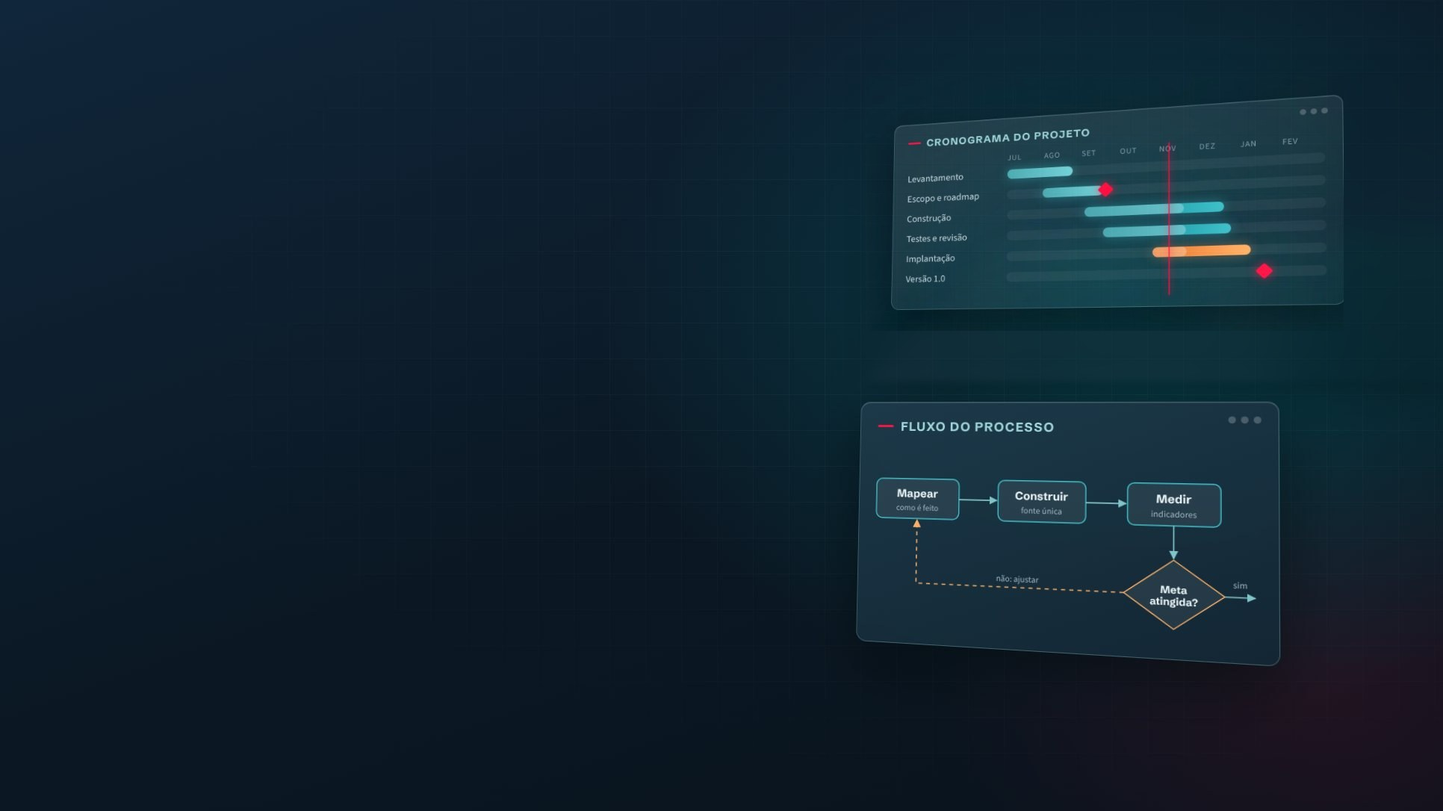
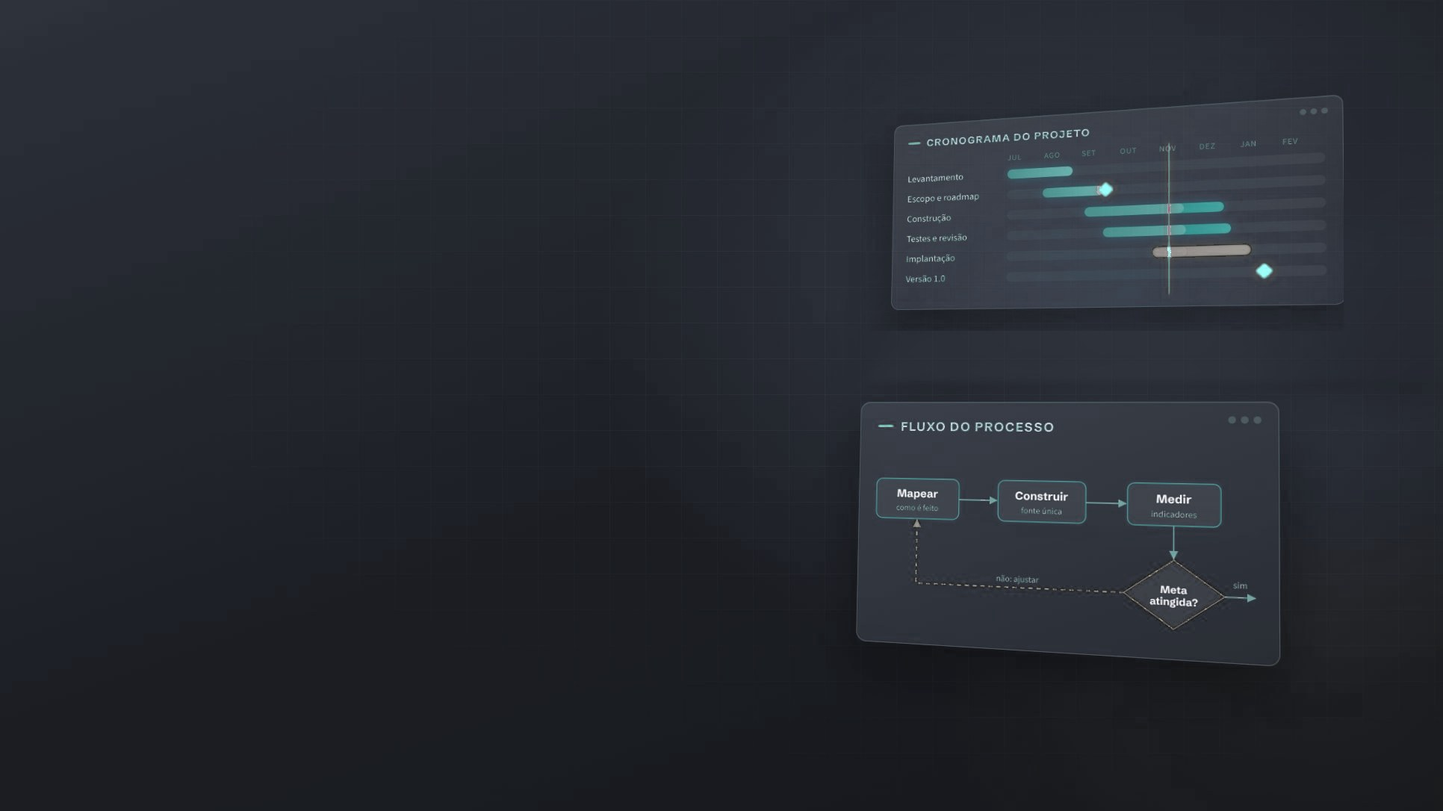
Add files via upload

diff --git a/index.html b/index.html
@@ -6,7 +6,7 @@
 <title>Rafael Oertel — Planejamento e Gestão de Projetos · Melhoria de Processos</title>
 <meta name="description" data-pt="Rafael Oertel — engenheiro de produção, 13 anos em planejamento e gestão de projetos, melhoria de processos e governança operacional em quatro setores: óleo e gás offshore, logística, transporte e consultoria. ERP construído do zero sobre o Microsoft 365." data-en="Rafael Oertel — production engineer, 13 years in project planning and management, process improvement and operational governance across four sectors: offshore oil & gas, logistics, transport and consulting. An ERP built from zero on Microsoft 365." content="Rafael Oertel — engenheiro de produção, 13 anos em planejamento e gestão de projetos, melhoria de processos e governança operacional em quatro setores: óleo e gás offshore, logística, transporte e consultoria. ERP construído do zero sobre o Microsoft 365.">
 <meta name="author" content="Rafael Oertel">
-<meta name="theme-color" content="#132634">
+<meta name="theme-color" content="#22262E">
 <!-- Enquanto o site for rascunho, descomente a linha abaixo para não ser indexado:
 <meta name="robots" content="noindex,nofollow"> -->
 <link rel="canonical" href="https://rafaeloertel.com/">
@@ -15,19 +15,19 @@
 <meta property="og:title" content="Rafael Oertel — projetos no prazo, processos sob controle, em qualquer indústria">
 <meta property="og:description" content="Planejamento e gestão de projetos, melhoria de processos e governança operacional. 13 anos em quatro setores, 8 deles em óleo e gás offshore. Estudo de caso do ERP, números e decisões.">
 <meta property="og:url" content="https://rafaeloertel.com/">
-<meta property="og:image" content="https://rafaeloertel.com/assets/img/og.jpg">
+<meta property="og:image" content="https://rafaeloertel.com/og.jpg">
 <meta property="og:image:width" content="1200">
 <meta property="og:image:height" content="630">
 <meta property="og:locale" content="pt_BR">
 <meta property="og:locale:alternate" content="en_US">
 <meta name="twitter:card" content="summary_large_image">
-<link rel="icon" href="/icon-32.png?v=0.5.12" sizes="32x32" type="image/png">
-<link rel="icon" href="/favicon.svg?v=0.5.12" type="image/svg+xml">
-<link rel="apple-touch-icon" href="/apple-touch-icon.png?v=0.5.12">
+<link rel="icon" href="/icon-32.png?v=0.5.15" sizes="32x32" type="image/png">
+<link rel="icon" href="/favicon.svg?v=0.5.15" type="image/svg+xml">
+<link rel="apple-touch-icon" href="/apple-touch-icon.png?v=0.5.15">
 <link rel="preload" href="assets/fonts/schibsted-grotesk-latin-wght-normal.woff2" as="font" type="font/woff2" crossorigin>
 <link rel="preload" href="assets/fonts/source-sans-3-latin-wght-normal.woff2" as="font" type="font/woff2" crossorigin>
-<link rel="preload" href="/hero.jpg?v=0.5.13" as="image" media="(min-width: 761px)">
-<link rel="preload" href="assets/img/hero-mobile.jpg" as="image" media="(max-width: 760px)">
+<link rel="preload" href="/hero.jpg?v=0.5.15" as="image" media="(min-width: 761px)">
+<link rel="preload" href="/hero-mobile.jpg?v=0.5.15" as="image" media="(max-width: 760px)">
 <script type="application/ld+json">
 {"@context":"https://schema.org","@type":"Person","name":"Rafael Oertel","jobTitle":"Planejamento e Gestão de Projetos · Melhoria de Processos","url":"https://rafaeloertel.com/","sameAs":["https://www.linkedin.com/in/rafael-oertel-16750b40"],"alumniOf":[{"@type":"CollegeOrUniversity","name":"Universidade Federal do Rio de Janeiro"},{"@type":"CollegeOrUniversity","name":"Universidade Gama Filho"}],"knowsAbout":["Project planning & management","Process improvement","Operational governance","Project controls","KPI governance","Digital transformation","Offshore logistics","Supply chain","Cost control","OHS compliance","Microsoft 365","SharePoint","Process automation"]}
 </script>
@@ -47,15 +47,16 @@
 @font-face{font-family:"Source Sans 3";src:url("assets/fonts/source-sans-3-latin-wght-italic.woff2") format("woff2");font-weight:200 900;font-style:italic;font-display:swap}
 
 :root{
-  /* --- cor (tema claro) --- */
-  --bg:#FFFFFF; --bg-2:#F7F7F7; --bg-3:#DEEDEE; --surface:#FFFFFF; --surface-2:#F1F5F6;
-  --line:#DCDCDC; --line-2:#EAECEE;
-  --ink:#243746; --text:#2B3A46; --text-2:#5A6771; --text-3:#5F6B74;
-  --brand:#007079; --brand-deep:#004F55; --brand-soft:#DEEDEE; --brand-contrast:#FFFFFF;
-  --accent:#FF1243; --mist:#D5EAF4; --spruce:#FFE7D6;
-  --band:#132634; --band-2:#1B2F3E; --on-band:#E8EEF1; --on-band-2:#B7C4CC; --band-line:rgba(255,255,255,.14);
-  --ok:#2E8B57; --warn:#E08A00;
-  --shadow:0 12px 32px rgba(19,38,52,.10);
+  /* --- cor (tema claro) · paleta: Grafite #22262E, Petróleo #0F6E6B, Branco #FFFFFF, Cinza #8E939C --- */
+  --bg:#FFFFFF; --bg-2:#F4F5F6; --bg-3:#E2EFEE; --surface:#FFFFFF; --surface-2:#F1F3F4;
+  --line:#DADDE1; --line-2:#ECEEF0;
+  --mk-left:#22262E; --mk-right:#8E939C; --mk-top:#D3D6DA; --mk-bar:#FFFFFF; --mk-line:#2A9D98;
+  --ink:#22262E; --text:#2C313A; --text-2:#5C626C; --text-3:#646A74;
+  --brand:#0F6E6B; --brand-deep:#0A4F4D; --brand-soft:#E2EFEE; --brand-contrast:#FFFFFF;
+  --accent:#0F6E6B; --mist:#E2EFEE; --spruce:#ECEEF0;
+  --band:#22262E; --band-2:#2C313A; --on-band:#F2F3F5; --on-band-2:#B9BDC4; --band-line:rgba(255,255,255,.14);
+  --ok:#0F6E6B; --warn:#646A74;
+  --shadow:0 12px 32px rgba(34,38,46,.10);
   /* --- tipo --- */
   --f-display:"Schibsted Grotesk",-apple-system,"Segoe UI",Roboto,Arial,sans-serif;
   --f-body:"Source Sans 3","Segoe UI",Roboto,Arial,sans-serif;
@@ -65,27 +66,29 @@
 }
 @media (prefers-color-scheme:dark){
   :root:not([data-theme="light"]){
-    --bg:#0F1D28; --bg-2:#132634; --bg-3:#1A3040; --surface:#172A38; --surface-2:#1B2F3E;
+    --bg:#1A1D23; --bg-2:#22262E; --bg-3:#2A2F38; --surface:#252A32; --surface-2:#2C313A;
     --line:rgba(255,255,255,.13); --line-2:rgba(255,255,255,.08);
-    --ink:#F2F6F8; --text:#DCE5EA; --text-2:#A9B8C2; --text-3:#86959F;
-    --brand:#73B1B5; --brand-deep:#A8CED1; --brand-soft:rgba(115,177,181,.16); --brand-contrast:#0B161F;
-    --accent:#FF4D74; --mist:#1E3A4A; --spruce:#3A2E28;
-    --band:#0B161F; --band-2:#132634; --on-band:#E8EEF1; --on-band-2:#B7C4CC; --band-line:rgba(255,255,255,.14);
-    --ok:#5FBF83; --warn:#F2A43A;
+    --mk-left:#F2F3F5; --mk-right:#8E939C; --mk-top:#4A505A; --mk-bar:#22262E; --mk-line:#0F6E6B;
+    --ink:#F2F3F5; --text:#DDE0E4; --text-2:#B0B5BD; --text-3:#959AA3;
+    --brand:#5FB3AF; --brand-deep:#8FCBC8; --brand-soft:rgba(95,179,175,.16); --brand-contrast:#14181D;
+    --accent:#5FB3AF; --mist:#2A2F38; --spruce:#2C313A;
+    --band:#15181D; --band-2:#22262E; --on-band:#F2F3F5; --on-band-2:#B9BDC4; --band-line:rgba(255,255,255,.14);
+    --ok:#5FB3AF; --warn:#B0B5BD;
     --shadow:0 12px 32px rgba(0,0,0,.35);
     color-scheme:dark;
   }
 }
 :root[data-theme="dark"]{
-  --bg:#0F1D28; --bg-2:#132634; --bg-3:#1A3040; --surface:#172A38; --surface-2:#1B2F3E;
-  --line:rgba(255,255,255,.13); --line-2:rgba(255,255,255,.08);
-  --ink:#F2F6F8; --text:#DCE5EA; --text-2:#A9B8C2; --text-3:#86959F;
-  --brand:#73B1B5; --brand-deep:#A8CED1; --brand-soft:rgba(115,177,181,.16); --brand-contrast:#0B161F;
-  --accent:#FF4D74; --mist:#1E3A4A; --spruce:#3A2E28;
-  --band:#0B161F; --band-2:#132634; --on-band:#E8EEF1; --on-band-2:#B7C4CC; --band-line:rgba(255,255,255,.14);
-  --ok:#5FBF83; --warn:#F2A43A;
-  --shadow:0 12px 32px rgba(0,0,0,.35);
-  color-scheme:dark;
+    --bg:#1A1D23; --bg-2:#22262E; --bg-3:#2A2F38; --surface:#252A32; --surface-2:#2C313A;
+    --line:rgba(255,255,255,.13); --line-2:rgba(255,255,255,.08);
+    --mk-left:#F2F3F5; --mk-right:#8E939C; --mk-top:#4A505A; --mk-bar:#22262E; --mk-line:#0F6E6B;
+    --ink:#F2F3F5; --text:#DDE0E4; --text-2:#B0B5BD; --text-3:#959AA3;
+    --brand:#5FB3AF; --brand-deep:#8FCBC8; --brand-soft:rgba(95,179,175,.16); --brand-contrast:#14181D;
+    --accent:#5FB3AF; --mist:#2A2F38; --spruce:#2C313A;
+    --band:#15181D; --band-2:#22262E; --on-band:#F2F3F5; --on-band-2:#B9BDC4; --band-line:rgba(255,255,255,.14);
+    --ok:#5FB3AF; --warn:#B0B5BD;
+    --shadow:0 12px 32px rgba(0,0,0,.35);
+    color-scheme:dark;
 }
 
 /* ---------- base ---------- */
@@ -133,15 +136,15 @@ body.review .review-badge{display:block}
 .btn-ghost:hover{border-color:var(--ink);color:var(--ink)}
 .btn-light{background:transparent;color:#fff;border-color:rgba(255,255,255,.55)}
 .btn-light:hover{border-color:#fff;color:#fff;background:rgba(255,255,255,.08)}
-.btn-white{background:#fff;color:#243746;border-color:#fff}
-.btn-white:hover{background:#F1F5F6;color:#243746}
+.btn-white{background:#fff;color:#22262E;border-color:#fff}
+.btn-white:hover{background:#F1F3F4;color:#22262E}
 .btn[aria-disabled="true"]{opacity:.55;cursor:default;pointer-events:none}
 .arrow{display:inline-flex;align-items:center;gap:8px;font-family:var(--f-display);font-weight:600;color:var(--ink)}
 .arrow::after{content:"→";color:var(--accent);transition:transform .15s ease}
 .arrow:hover::after{transform:translateX(4px)}
 .pill{display:inline-block;font-family:var(--f-display);font-size:.72rem;font-weight:700;letter-spacing:.08em;text-transform:uppercase;padding:4px 9px;border-radius:3px;background:var(--brand-soft);color:var(--brand-deep)}
 .pill-dark{background:rgba(255,255,255,.10);color:var(--on-band)}
-.pill-warn{background:rgba(224,138,0,.14);color:var(--warn)}
+.pill-warn{background:rgba(142,147,156,.18);color:var(--warn)}
 
 /* ---------- cabeçalho ---------- */
 .header{position:fixed;inset:0 0 auto 0;z-index:50;padding-top:env(safe-area-inset-top,0px);transition:background .25s ease,box-shadow .25s ease;color:#fff}
@@ -159,13 +162,14 @@ html[data-lang="en"] .lang .flag-br{display:block}
 .brand span{white-space:nowrap}
 @media (min-width:1161px) and (max-width:1500px){.nav a{padding:10px 7px;font-size:.9rem}}
 .brand svg{width:36px;height:36px;flex:none}
-.brand .mark-r{fill:currentColor}.brand .mark-dot{fill:#FF1243}
+.brand .mk-left{fill:var(--mk-left)}.brand .mk-right{fill:var(--mk-right)}.brand .mk-top{fill:var(--mk-top)}.brand .mk-bar{fill:var(--mk-bar)}.brand .mk-bar2{fill:var(--mk-bar);opacity:.42}.brand .mk-line{stroke:var(--mk-line);stroke-width:2;fill:none}
+.header:not(.scrolled) .brand,.footer .brand{--mk-left:#FFFFFF;--mk-right:#8E939C;--mk-top:#4A505A;--mk-bar:#22262E;--mk-line:#0F6E6B} /* marca sobre fundo escuro: topo do site e rodapé */
 .nav{display:flex;align-items:center;gap:4px}
 .nav a{color:inherit;font-family:var(--f-display);font-weight:500;font-size:.95rem;padding:10px 10px;border-radius:4px;opacity:.9;white-space:nowrap}
 .nav a:hover{opacity:1;background:rgba(255,255,255,.10)}
 .nav a.active{opacity:1;box-shadow:inset 0 -2px 0 var(--accent)}
 .nav .btn{margin-left:8px;padding:10px 16px;font-size:.9rem}
-.header.scrolled{background:var(--surface);color:var(--ink);box-shadow:0 1px 0 var(--line),0 8px 24px rgba(19,38,52,.06)}
+.header.scrolled{background:var(--surface);color:var(--ink);box-shadow:0 1px 0 var(--line),0 8px 24px rgba(34,38,46,.06)}
 .header.scrolled .nav a:hover{background:var(--bg-2)}
 .header.scrolled .nav .btn-light{color:var(--ink);border-color:var(--line)}
 .header.scrolled .nav .btn-light:hover{border-color:var(--ink);background:transparent}
@@ -191,8 +195,8 @@ details.more > summary::-webkit-details-marker{display:none}
 details[open] > .more-btn::after{transform:rotate(-135deg) translate(-2px,-1px)}
 .more-btn:hover{border-color:var(--brand)}
 .more-btn:focus-visible{outline:3px solid var(--brand);outline-offset:3px}
-.band .more-btn{background:transparent;border-color:var(--band-line);color:#9FD6DA}
-.band .more-btn:hover{border-color:#9FD6DA}
+.band .more-btn{background:transparent;border-color:var(--band-line);color:#8FCBC8}
+.band .more-btn:hover{border-color:#8FCBC8}
 details.more[open] > .more-btn{margin-bottom:14px}
 .tl details.more .more-btn{margin-top:10px;padding:8px 14px;font-size:.88rem}
 .log details.more{padding:6px 0 20px;border-top:1px solid var(--line)}
@@ -204,18 +208,19 @@ details.more[open] > .more-btn{margin-bottom:14px}
 /* telas em faixa deslizante */
 .shots{display:flex!important;gap:14px;overflow-x:auto;scroll-snap-type:x mandatory;padding-bottom:12px;scrollbar-width:thin;scrollbar-color:var(--band-line) transparent}
 .shots figure{flex:0 0 min(440px,82%);scroll-snap-align:start}
-.shots:focus-visible{outline:3px solid #9FD6DA;outline-offset:4px;border-radius:var(--radius)}
+.shots:focus-visible{outline:3px solid #8FCBC8;outline-offset:4px;border-radius:var(--radius)}
 .shots-hint{font-size:.85rem;color:var(--on-band-2);margin-top:6px}
 @media print{details.more > .more-btn{display:none}}
 /* ---------- hero ---------- */
-.hero{position:relative;min-height:clamp(560px,82vh,820px);display:flex;align-items:flex-end;color:#fff;isolation:isolate;background:#132634}
+.hero,.statement{--accent:#5FB3AF} /* destaque em petróleo claro sobre fundo escuro */
+.hero{position:relative;min-height:clamp(560px,82vh,820px);display:flex;align-items:flex-end;color:#fff;isolation:isolate;background:#22262E}
 .hero-img{position:absolute;inset:0;width:100%;height:100%;object-fit:cover;object-position:68% 50%;z-index:-2}
 @media (min-width:1001px){.hero-img{object-position:85% 50%}} /* telas largas: mantém o cronograma inteiro dentro da página */
 .hero picture{display:contents}
 .hero::before{content:"";position:absolute;inset:0;z-index:-1;background:
-  linear-gradient(180deg,rgba(6,16,26,.55) 0%,rgba(6,16,26,0) 30%),
-  linear-gradient(90deg,rgba(6,16,26,.72) 0%,rgba(6,16,26,.35) 48%,rgba(6,16,26,0) 75%),
-  linear-gradient(0deg,rgba(6,16,26,.85) 0%,rgba(6,16,26,.2) 45%,rgba(6,16,26,0) 70%)}
+  linear-gradient(180deg,rgba(22,25,31,.55) 0%,rgba(22,25,31,0) 30%),
+  linear-gradient(90deg,rgba(22,25,31,.72) 0%,rgba(22,25,31,.35) 48%,rgba(22,25,31,0) 75%),
+  linear-gradient(0deg,rgba(22,25,31,.85) 0%,rgba(22,25,31,.2) 45%,rgba(22,25,31,0) 70%)}
 .hero .container{padding-block:clamp(120px,14vh,160px) clamp(48px,7vh,80px)}
 .hero-grid{display:grid;grid-template-columns:minmax(0,1fr) auto;align-items:end;gap:32px}
 .hero .eyebrow{color:rgba(255,255,255,.82)}
@@ -230,7 +235,7 @@ details.more[open] > .more-btn{margin-bottom:14px}
 @media (max-width:760px){.hero-grid{grid-template-columns:1fr}.hero-cap{text-align:left;max-width:none}
   .hero{min-height:min(94vh,880px)}.hero-img{object-position:50% 0%}
   .hero .eyebrow .opt{display:none}.hero .lead{font-size:1.05rem;margin-top:16px}.hero h1{margin-top:16px}
-  .hero::before{background:linear-gradient(180deg,rgba(6,16,26,.35) 0%,rgba(6,16,26,.18) 20%,rgba(6,16,26,.78) 40%,rgba(6,16,26,.95) 100%)}}
+  .hero::before{background:linear-gradient(180deg,rgba(22,25,31,.35) 0%,rgba(22,25,31,.18) 20%,rgba(22,25,31,.78) 40%,rgba(22,25,31,.95) 100%)}}
 
 /* ---------- números ---------- */
 .numbers{background:var(--bg-2);border-bottom:1px solid var(--line-2)}
@@ -277,8 +282,8 @@ details.more[open] > .more-btn{margin-bottom:14px}
 /* ---------- faixa fotográfica (declaração) ---------- */
 .statement{position:relative;isolation:isolate;color:#fff;min-height:clamp(320px,46vh,520px);display:flex;align-items:center;background:#0B3A40}
 .statement img{position:absolute;inset:0;width:100%;height:100%;object-fit:cover;object-position:62% 55%;z-index:-2}
-@media (max-width:760px){.statement img{object-position:78% 55%}.statement::before{background:linear-gradient(90deg,rgba(11,30,40,.86) 0%,rgba(11,30,40,.62) 70%,rgba(11,30,40,.35) 100%)}}
-.statement::before{content:"";position:absolute;inset:0;z-index:-1;background:linear-gradient(90deg,rgba(11,30,40,.80) 0%,rgba(11,30,40,.45) 55%,rgba(11,30,40,.10) 100%)}
+@media (max-width:760px){.statement img{object-position:78% 55%}.statement::before{background:linear-gradient(90deg,rgba(22,25,31,.86) 0%,rgba(22,25,31,.62) 70%,rgba(22,25,31,.35) 100%)}}
+.statement::before{content:"";position:absolute;inset:0;z-index:-1;background:linear-gradient(90deg,rgba(22,25,31,.80) 0%,rgba(22,25,31,.45) 55%,rgba(22,25,31,.10) 100%)}
 .statement .container{padding-block:clamp(56px,8vw,96px)}
 .statement blockquote{margin:0;max-width:26ch;font-family:var(--f-display);font-size:clamp(1.7rem,3.6vw,2.9rem);font-weight:700;line-height:1.12;letter-spacing:-.02em}
 .statement blockquote::before{content:"";display:block;width:36px;height:3px;background:var(--accent);margin-bottom:22px}
@@ -335,7 +340,7 @@ details.more[open] > .more-btn{margin-bottom:14px}
 @media (max-width:860px){.edu{grid-template-columns:1fr}}
 
 /* ---------- capítulo ERP (faixa escura) ---------- */
-.band{background:var(--band);color:var(--on-band);--brand:#73B1B5;--brand-deep:#A8CED1;--brand-soft:rgba(115,177,181,.16);--brand-contrast:#0B161F;--warn:#F2A43A}
+.band{background:var(--band);color:var(--on-band);--brand:#5FB3AF;--brand-deep:#8FCBC8;--brand-soft:rgba(95,179,175,.16);--brand-contrast:#14181D;--accent:#5FB3AF;--warn:#B0B5BD}
 .band h2,.band h3,.band h4{color:#fff}
 .band .eyebrow{color:var(--on-band-2)}
 .band .lead{color:var(--on-band-2)}
@@ -412,7 +417,7 @@ details.more[open] > .more-btn{margin-bottom:14px}
 .media .media-card p.small{font-size:.86rem;opacity:.85}
 .media-card{border:1px solid var(--band-line);border-radius:var(--radius);overflow:hidden;background:var(--band-2);display:grid;grid-template-rows:auto 1fr}
 .media-card .frame{aspect-ratio:16/9;background:linear-gradient(135deg,#0E2A36,#1B4B55);display:grid;place-items:center;position:relative}
-.media-card .frame video{position:absolute;inset:0;width:100%;height:100%;object-fit:cover;background:#0B161F}
+.media-card .frame video{position:absolute;inset:0;width:100%;height:100%;object-fit:cover;background:#15181D}
 .play{width:72px;height:72px;border-radius:50%;background:rgba(255,255,255,.14);border:1.5px solid rgba(255,255,255,.5);display:grid;place-items:center}
 .play::after{content:"";border-style:solid;border-width:12px 0 12px 20px;border-color:transparent transparent transparent #fff;margin-left:5px}
 .media-card .txt{padding:18px 20px 20px;display:grid;gap:8px;align-content:start}
@@ -478,7 +483,7 @@ body.review .totop{bottom:calc(64px + env(safe-area-inset-bottom,0px))}
 
 /* ---------- impressão: vira um currículo estendido em preto no branco ---------- */
 @media print{
-  :root{--bg:#fff;--bg-2:#fff;--surface:#fff;--ink:#000;--text:#111;--text-2:#333;--text-3:#555;--line:#bbb;--line-2:#ddd;--brand:#005a61;--band:#fff;--band-2:#fff;--on-band:#111;--on-band-2:#333;--band-line:#bbb}
+  :root{--bg:#fff;--bg-2:#fff;--surface:#fff;--ink:#000;--text:#111;--text-2:#333;--text-3:#555;--line:#bbb;--line-2:#ddd;--brand:#0F6E6B;--band:#fff;--band-2:#fff;--on-band:#111;--on-band-2:#333;--band-line:#bbb}
   html[data-lang="en"] [lang="pt-BR"],html[data-lang="pt"] [lang="en"]{display:none!important}
   .header,.skip,.menu-btn,.lang,.review-badge,.totop,.hero picture,.hero::before,.hero-cta,.statement,.shots,.media,.copy,.arch .hint,.doc img,.portrait img,.field,.reach{display:none!important}
   body{background:#fff;color:#111;font-size:11pt}
@@ -507,7 +512,7 @@ body.review .totop{bottom:calc(64px + env(safe-area-inset-bottom,0px))}
 <!-- ============================ CABEÇALHO ============================ -->
 <header class="header" id="topo">
   <div class="container bar">
-    <a class="brand" href="#inicio"><svg viewBox="10 10 44 44" aria-hidden="true"><path class="mark-r" d="M12.0 11.888579368591309Q13.615598678588867 11.944290161132812 16.26183795928955 12.0Q18.908077239990234 12.055709838867188 21.582172393798828 12.055709838867188Q24.367687225341797 12.055709838867188 26.9303617477417 12.0Q29.4930362701416 11.944290161132812 30.551532745361328 11.944290161132812Q36.23398208618164 11.944290161132812 39.93871879577637 13.002785682678223Q43.643455505371094 14.061281204223633 45.481895446777344 16.206128120422363Q47.320335388183594 18.350975036621094 47.320335388183594 21.637882232666016Q47.320335388183594 23.69916343688965 46.48468017578125 25.649024963378906Q45.649024963378906 27.598886489868164 43.64345359802246 29.186630249023438Q41.637882232666016 30.77437400817871 38.15599060058594 31.693593978881836Q36.27035903930664 32.19139862060547 33.8373908996582 32.41961669921875Q39.38301467895508 32.75266647338867 42.22283935546875 34.45125198364258Q45.20334243774414 36.23398208618164 45.87186813354492 39.68802261352539L47.04178237915039 45.481895446777344Q47.487464904785156 47.543174743652344 48.04456901550293 48.3231201171875Q48.6016731262207 49.103065490722656 49.54874801635742 49.103065490722656Q50.10585021972656 49.103065490722656 50.49582290649414 48.93593406677246Q50.88579559326172 48.768802642822266 51.27576446533203 48.37882995605469L52.0 49.103065490722656Q50.272979736328125 50.830081939697266 48.239553451538086 51.47075080871582Q46.20612716674805 52.111419677734375 43.643455505371094 52.111419677734375Q40.02228546142578 52.111419677734375 37.79387283325195 50.80222702026367Q35.565460205078125 49.49303436279297 35.06406784057617 46.09470748901367L34.22841262817383 40.523677825927734Q33.89414978027344 38.23955535888672 33.392757415771484 36.456825256347656Q32.89136505126953 34.674095153808594 32.055710792541504 33.64345359802246Q31.220056533813477 32.61281204223633 29.771587371826172 32.61281204223633H15.955431938171387V17.79387092590332Q15.955431938171387 15.732590675354004 15.676880359649658 14.757660388946533Q15.39832878112793 13.782730102539062 14.53481912612915 13.420612812042236Q13.671309471130371 13.05849552154541 12.0 13.002785682678223ZM27.264623641967773 31.498607635498047H28.768802642822266Q31.610027313232422 31.498607635498047 33.08635139465332 30.245125770568848Q34.56267547607422 28.99164390563965 35.091922760009766 26.902506828308105Q35.62117004394531 24.813369750976562 35.62117004394531 22.250696182250977Q35.62117004394531 17.84958267211914 34.42339897155762 15.426184177398682Q33.22562789916992 13.002785682678223 30.272979736328125 13.002785682678223Q28.378829956054688 13.002785682678223 27.82172679901123 13.949860572814941Q27.264623641967773 14.89693546295166 27.264623641967773 17.79387092590332Z"/><path class="mark-dot" d="M21.61 35.01 Q24.51 39.19 26.28 43.37 A5.35 5.35 0 1 1 16.94 43.37 Q18.71 39.19 21.61 35.01Z"/><circle class="mark-dot" cx="51.10" cy="14.54" r="2.94"/></svg><span>Rafael Oertel</span></a>
+    <a class="brand" href="#inicio"><svg viewBox="6 6 52 52" aria-hidden="true"><path d="M32.0 8.0L52.78 20.0L32.0 32.0L11.22 20.0Z" class="mk-top"/><path d="M11.22 44.0L32.0 56.0L32.0 32.0L11.22 20.0Z" class="mk-left"/><path d="M52.78 44.0L32.0 56.0L32.0 32.0L52.78 20.0Z" class="mk-right"/><path d="M15.79 29.84L32.0 39.2L32.0 41.36L15.79 32.0Z" class="mk-bar"/><path d="M32.0 39.2L35.74 37.04L35.74 39.2L32.0 41.36Z" class="mk-bar2"/><path d="M21.61 37.76L32.0 43.76L32.0 45.92L21.61 39.92Z" class="mk-bar"/><path d="M32.0 43.76L41.35 38.36L41.35 40.52L32.0 45.92Z" class="mk-bar2"/><path d="M27.01 45.44L32.0 48.32L32.0 50.48L27.01 47.6Z" class="mk-bar"/><path d="M32.0 48.32L46.55 39.92L46.55 42.08L32.0 50.48Z" class="mk-bar2"/><path d="M32.0 33.92L32.0 54.08" fill="none" class="mk-line" stroke-dasharray="2.4 1.8"/></svg><span>Rafael Oertel</span></a>
     <div class="right">
       <nav class="nav" id="nav" aria-label="Seções">
         <a href="#metodo"><span lang="pt-BR">Método</span><span lang="en">Method</span></a>
@@ -530,8 +535,8 @@ body.review .totop{bottom:calc(64px + env(safe-area-inset-bottom,0px))}
 <section class="hero" id="inicio" aria-label="Apresentação">
   <!-- hero.jpg (1932×1086) desktop · hero-mobile.jpg (1000×1500) celular. Ilustração original: cronograma e fluxo de processo. -->
   <picture>
-    <source media="(max-width:760px)" srcset="assets/img/hero-mobile.jpg">
-    <img class="hero-img" src="/hero.jpg?v=0.5.13" alt="" width="1932" height="1086" fetchpriority="high">
+    <source media="(max-width:760px)" srcset="/hero-mobile.jpg?v=0.5.15">
+    <img class="hero-img" src="/hero.jpg?v=0.5.15" alt="" width="1932" height="1086" fetchpriority="high">
   </picture>
   <div class="container">
     <div class="hero-grid">
@@ -948,10 +953,10 @@ body.review .totop{bottom:calc(64px + env(safe-area-inset-bottom,0px))}
 <footer class="footer">
   <div class="container">
     <div class="row">
-      <a class="brand" href="#inicio"><svg viewBox="10 10 44 44" aria-hidden="true"><path class="mark-r" d="M12.0 11.888579368591309Q13.615598678588867 11.944290161132812 16.26183795928955 12.0Q18.908077239990234 12.055709838867188 21.582172393798828 12.055709838867188Q24.367687225341797 12.055709838867188 26.9303617477417 12.0Q29.4930362701416 11.944290161132812 30.551532745361328 11.944290161132812Q36.23398208618164 11.944290161132812 39.93871879577637 13.002785682678223Q43.643455505371094 14.061281204223633 45.481895446777344 16.206128120422363Q47.320335388183594 18.350975036621094 47.320335388183594 21.637882232666016Q47.320335388183594 23.69916343688965 46.48468017578125 25.649024963378906Q45.649024963378906 27.598886489868164 43.64345359802246 29.186630249023438Q41.637882232666016 30.77437400817871 38.15599060058594 31.693593978881836Q36.27035903930664 32.19139862060547 33.8373908996582 32.41961669921875Q39.38301467895508 32.75266647338867 42.22283935546875 34.45125198364258Q45.20334243774414 36.23398208618164 45.87186813354492 39.68802261352539L47.04178237915039 45.481895446777344Q47.487464904785156 47.543174743652344 48.04456901550293 48.3231201171875Q48.6016731262207 49.103065490722656 49.54874801635742 49.103065490722656Q50.10585021972656 49.103065490722656 50.49582290649414 48.93593406677246Q50.88579559326172 48.768802642822266 51.27576446533203 48.37882995605469L52.0 49.103065490722656Q50.272979736328125 50.830081939697266 48.239553451538086 51.47075080871582Q46.20612716674805 52.111419677734375 43.643455505371094 52.111419677734375Q40.02228546142578 52.111419677734375 37.79387283325195 50.80222702026367Q35.565460205078125 49.49303436279297 35.06406784057617 46.09470748901367L34.22841262817383 40.523677825927734Q33.89414978027344 38.23955535888672 33.392757415771484 36.456825256347656Q32.89136505126953 34.674095153808594 32.055710792541504 33.64345359802246Q31.220056533813477 32.61281204223633 29.771587371826172 32.61281204223633H15.955431938171387V17.79387092590332Q15.955431938171387 15.732590675354004 15.676880359649658 14.757660388946533Q15.39832878112793 13.782730102539062 14.53481912612915 13.420612812042236Q13.671309471130371 13.05849552154541 12.0 13.002785682678223ZM27.264623641967773 31.498607635498047H28.768802642822266Q31.610027313232422 31.498607635498047 33.08635139465332 30.245125770568848Q34.56267547607422 28.99164390563965 35.091922760009766 26.902506828308105Q35.62117004394531 24.813369750976562 35.62117004394531 22.250696182250977Q35.62117004394531 17.84958267211914 34.42339897155762 15.426184177398682Q33.22562789916992 13.002785682678223 30.272979736328125 13.002785682678223Q28.378829956054688 13.002785682678223 27.82172679901123 13.949860572814941Q27.264623641967773 14.89693546295166 27.264623641967773 17.79387092590332Z"/><path class="mark-dot" d="M21.61 35.01 Q24.51 39.19 26.28 43.37 A5.35 5.35 0 1 1 16.94 43.37 Q18.71 39.19 21.61 35.01Z"/><circle class="mark-dot" cx="51.10" cy="14.54" r="2.94"/></svg><span>Rafael Oertel</span></a>
+      <a class="brand" href="#inicio"><svg viewBox="6 6 52 52" aria-hidden="true"><path d="M32.0 8.0L52.78 20.0L32.0 32.0L11.22 20.0Z" class="mk-top"/><path d="M11.22 44.0L32.0 56.0L32.0 32.0L11.22 20.0Z" class="mk-left"/><path d="M52.78 44.0L32.0 56.0L32.0 32.0L52.78 20.0Z" class="mk-right"/><path d="M15.79 29.84L32.0 39.2L32.0 41.36L15.79 32.0Z" class="mk-bar"/><path d="M32.0 39.2L35.74 37.04L35.74 39.2L32.0 41.36Z" class="mk-bar2"/><path d="M21.61 37.76L32.0 43.76L32.0 45.92L21.61 39.92Z" class="mk-bar"/><path d="M32.0 43.76L41.35 38.36L41.35 40.52L32.0 45.92Z" class="mk-bar2"/><path d="M27.01 45.44L32.0 48.32L32.0 50.48L27.01 47.6Z" class="mk-bar"/><path d="M32.0 48.32L46.55 39.92L46.55 42.08L32.0 50.48Z" class="mk-bar2"/><path d="M32.0 33.92L32.0 54.08" fill="none" class="mk-line" stroke-dasharray="2.4 1.8"/></svg><span>Rafael Oertel</span></a>
       <nav class="fnav" aria-label="Rodapé"><a href="#metodo"><span lang="pt-BR">Método</span><span lang="en">Method</span></a><a href="#sobre"><span lang="pt-BR">Sobre</span><span lang="en">About</span></a><a href="#erp"><span lang="pt-BR">Projeto ERP</span><span lang="en">ERP project</span></a><a href="#registro"><span lang="pt-BR">Registro</span><span lang="en">Log</span></a><a href="#contato"><span lang="pt-BR">Contato</span><span lang="en">Contact</span></a></nav>
     </div>
-    <p class="fine"><span lang="pt-BR">© <span class="ano">2026</span> Rafael Oertel. Site feito à mão em HTML, sem rastreadores, com assistência de inteligência artificial; o conteúdo e as decisões são meus. Versão 0.5.13 do site · atualizado em 15 de novembro de 2026.</span><span lang="en">© <span class="ano">2026</span> Rafael Oertel. Hand-built HTML site, no trackers, made with AI assistance; the content and the decisions are mine. Site version 0.5.13 · updated 15 November 2026.</span></p>
+    <p class="fine"><span lang="pt-BR">© <span class="ano">2026</span> Rafael Oertel. Site feito à mão em HTML, sem rastreadores, com assistência de inteligência artificial; o conteúdo e as decisões são meus. Versão 0.5.15 do site · atualizado em 22 de novembro de 2026.</span><span lang="en">© <span class="ano">2026</span> Rafael Oertel. Hand-built HTML site, no trackers, made with AI assistance; the content and the decisions are mine. Site version 0.5.15 · updated 22 November 2026.</span></p>
   </div>
   <a class="totop" id="totop" href="#inicio" aria-label="Voltar ao topo · Back to top"><span aria-hidden="true">↑</span></a>
 </footer>

diff --git a/404.html b/404.html
@@ -5,21 +5,21 @@
 <meta name="viewport" content="width=device-width, initial-scale=1">
 <title>Página não encontrada · Rafael Oertel</title>
 <meta name="robots" content="noindex">
-<link rel="icon" href="/icon-32.png?v=0.5.12" sizes="32x32" type="image/png">
-<link rel="icon" href="/favicon.svg?v=0.5.12" type="image/svg+xml">
-<link rel="apple-touch-icon" href="/apple-touch-icon.png?v=0.5.12">
+<link rel="icon" href="/icon-32.png?v=0.5.15" sizes="32x32" type="image/png">
+<link rel="icon" href="/favicon.svg?v=0.5.15" type="image/svg+xml">
+<link rel="apple-touch-icon" href="/apple-touch-icon.png?v=0.5.15">
 <style>
 @font-face{font-family:"Schibsted Grotesk";src:url("/assets/fonts/schibsted-grotesk-latin-wght-normal.woff2") format("woff2");font-weight:400 900;font-display:swap}
 @font-face{font-family:"Source Sans 3";src:url("/assets/fonts/source-sans-3-latin-wght-normal.woff2") format("woff2");font-weight:200 900;font-display:swap}
 :root{color-scheme:light dark}
-body{margin:0;min-height:100vh;display:grid;place-items:center;background:#132634;color:#E8EEF1;font-family:"Source Sans 3","Segoe UI",Roboto,Arial,sans-serif;padding:24px;box-sizing:border-box}
+body{margin:0;min-height:100vh;display:grid;place-items:center;background:#22262E;color:#F2F3F5;font-family:"Source Sans 3","Segoe UI",Roboto,Arial,sans-serif;padding:24px;box-sizing:border-box}
 main{max-width:560px}
-.bar{width:22px;height:3px;background:#FF1243;margin-bottom:18px}
+.bar{width:22px;height:3px;background:#5FB3AF;margin-bottom:18px}
 h1{font-family:"Schibsted Grotesk",Arial,sans-serif;font-size:clamp(2rem,6vw,3rem);line-height:1.05;margin:0 0 14px;color:#fff;letter-spacing:-.02em}
-p{margin:0 0 10px;font-size:1.1rem;color:#B7C4CC}
-a.btn{display:inline-block;margin-top:22px;padding:12px 20px;border-radius:4px;background:#fff;color:#243746;font-family:"Schibsted Grotesk",Arial,sans-serif;font-weight:700;text-decoration:none}
-a.btn:hover{background:#DEEDEE}
-small{display:block;margin-top:28px;color:#86959F}
+p{margin:0 0 10px;font-size:1.1rem;color:#B9BDC4}
+a.btn{display:inline-block;margin-top:22px;padding:12px 20px;border-radius:4px;background:#fff;color:#22262E;font-family:"Schibsted Grotesk",Arial,sans-serif;font-weight:700;text-decoration:none}
+a.btn:hover{background:#E2EFEE}
+small{display:block;margin-top:28px;color:#959AA3}
 </style>
 </head>
 <body>
